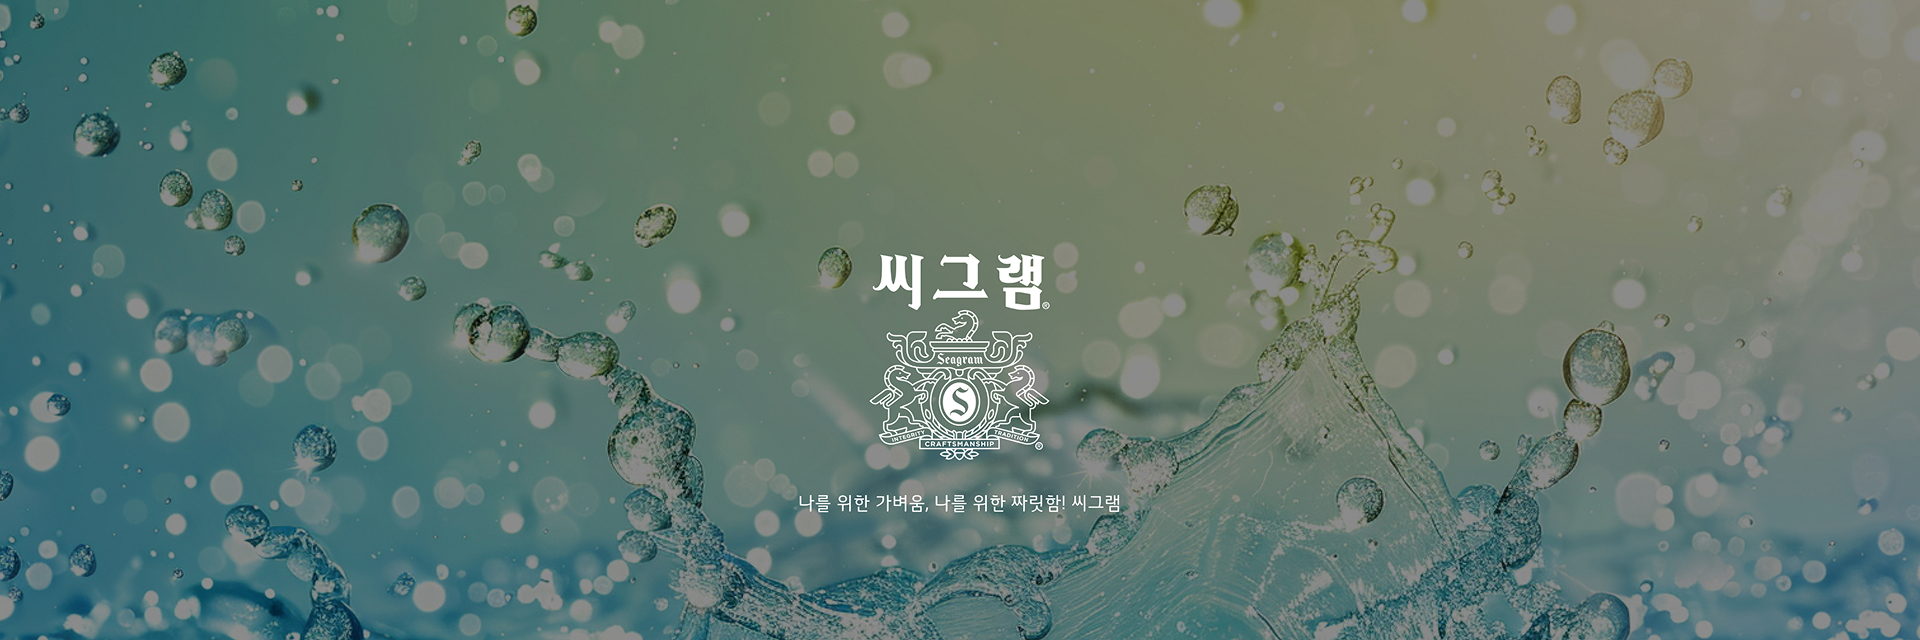
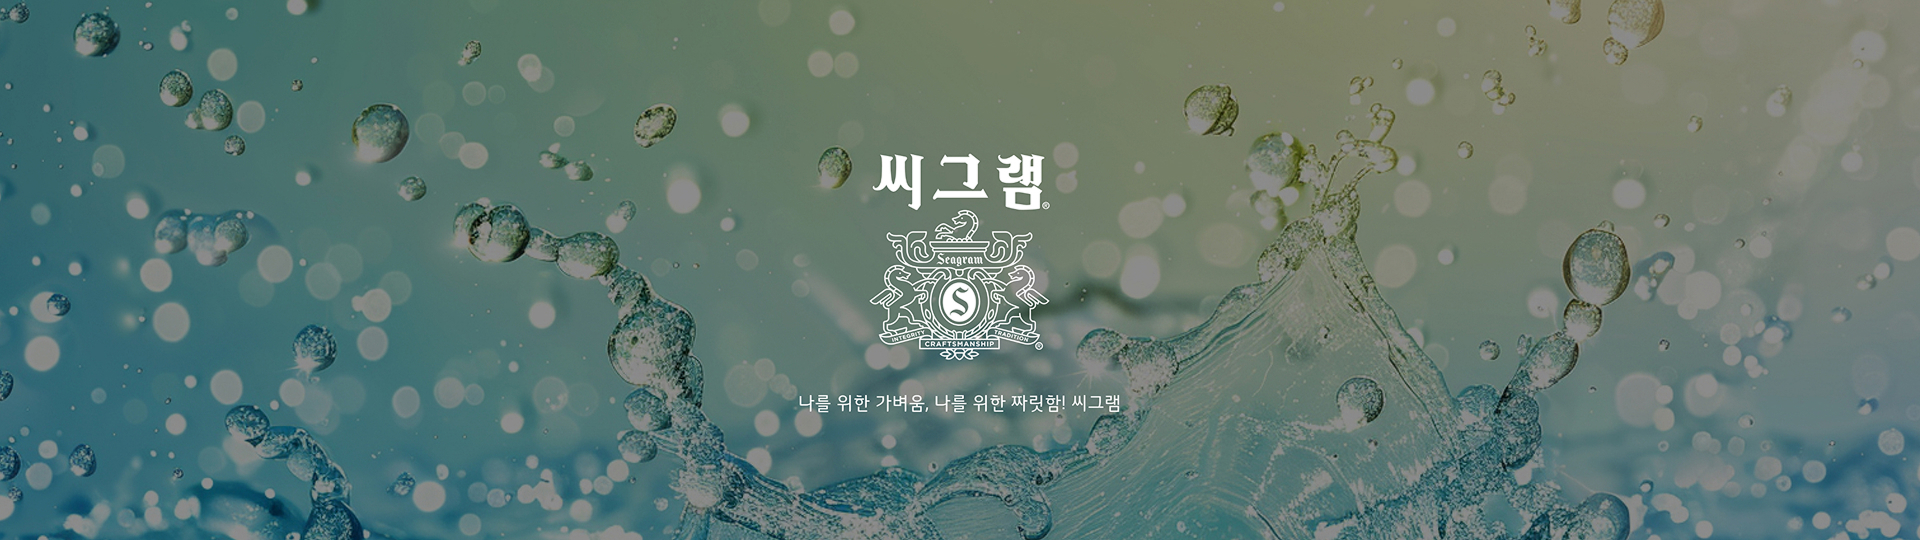
260212

diff --git a/css/brand.css b/css/brand.css
@@ -104,6 +104,8 @@
   left: 0;
   color: #FFFFFF;
   font-size: 40px;
+  font-weight: 700;
+  -webkit-text-stroke: 2px black;
 }
 @media (max-width: 768px) {
   .product-section .inner::before {
@@ -265,6 +267,8 @@
   top: -20%;
   color: #FFFFFF;
   font-size: 40px;
+  font-weight: 700;
+  -webkit-text-stroke: 2px black;
 }
 @media (max-width: 768px) {
   .media .image-wrap .inner::before {
@@ -306,10 +310,10 @@
   content: attr(data-title);
   position: absolute;
   left: 0;
-  bottom: 0%;
+  bottom: 0;
   width: 100%;
   padding: 15px 14px 30px;
-  background: rgba(255, 255, 255, 0.644);
+  background: rgba(255, 255, 255, 0.6431372549);
   backdrop-filter: blur(5px);
   color: #111;
   font-size: 18px;
@@ -317,6 +321,7 @@
   opacity: 0;
   transition: 0.3s;
   z-index: -1;
+  cursor: pointer;
 }
 .media .image-wrap .inner .media-list a:hover::before {
   opacity: 1;
@@ -1075,6 +1080,8 @@ body {
   display: flex;
   justify-content: center;
   align-items: center;
+  font-weight: 500;
+  font-size: 18px;
 }
 .title-location .locate img {
   width: 24px;
@@ -1082,7 +1089,6 @@ body {
 }
 .title-location .brand-title {
   margin-top: 10px;
-  min-height: 80px;
   text-align: center;
   font-size: 64px;
   font-weight: 800;

diff --git a/css/brand/_brand-media.scss b/css/brand/_brand-media.scss
@@ -10,7 +10,7 @@
 .media {
   display: flex;
   flex-direction: column;
-
+  
   .image-wrap {
     padding: 160px 0 80px;
     background-image: url(../image/brands/media.png);
@@ -27,7 +27,8 @@
         top: -20%;
         color: v.$c-text-white;
         font-size: v.$section-title;
-
+        font-weight: v.$fw-title-sm;
+        -webkit-text-stroke: 2px black;
         @include r.mobile-lg {
           top: -15%;
           left: 50%;
@@ -66,10 +67,10 @@
             content: attr(data-title);
             position: absolute;
             left: 0;
-            bottom: 0%;
+            bottom: 0;
             width: 100%;
             padding: 15px 14px 30px;
-            background: rgba(255, 255, 255, 0.644);
+            background: #ffffffa4;
             backdrop-filter: blur(5px);
             color: #111;
             font-size: 18px;
@@ -77,6 +78,7 @@
             opacity: 0;
             transition:  0.3s;
             z-index: -1;
+            cursor: pointer;
           }
           &:hover::before {
             opacity: 1;

diff --git a/css/brand/_brandsMain.scss b/css/brand/_brandsMain.scss
@@ -6,28 +6,26 @@
 .title-location {
   display: flex;
   flex-direction: column;
-  gap: v.$fs-re;
-  margin:160px 0;
+  gap: 18px;
   text-align: center;
+  margin: 160px 0;
   justify-content: center;
-
-  .locate {
+  
+  .locate{
     display: flex;
     justify-content: center;
     align-items: center;
-    gap: 6px;
-
-    img {
-      width: 24px;
-      height: 21px;
-    }
+    font-weight: 500;
+    font-size: 18px;
+    img {width: 24px;height: 21px;}
   }
 
   .brand-title {
     margin-top: 10px;
-    min-height: 80px;
+    // min-height: 80px;
+    text-align: center;
     font-size: v.$subpage-title;
-    font-weight: v.$fw-title;
+    font-weight: v.$fw-title
   }
 }
 

diff --git a/css/brands.css b/css/brands.css
@@ -139,15 +139,16 @@ table {
   display: flex;
   flex-direction: column;
   gap: 18px;
-  margin: 160px 0;
   text-align: center;
+  margin: 160px 0;
   justify-content: center;
 }
 .title-location .locate {
   display: flex;
   justify-content: center;
   align-items: center;
-  gap: 6px;
+  font-weight: 500;
+  font-size: 18px;
 }
 .title-location .locate img {
   width: 24px;
@@ -155,7 +156,7 @@ table {
 }
 .title-location .brand-title {
   margin-top: 10px;
-  min-height: 80px;
+  text-align: center;
   font-size: 64px;
   font-weight: 800;
 }

diff --git a/css/brand-product.scss b/css/brand-product.scss
@@ -22,12 +22,14 @@ body{
     display: flex;
     justify-content: center;
     align-items: center;
+    font-weight: 500;
+    font-size: 18px;
     img {width: 24px;height: 21px;}
   }
 
   .brand-title {
     margin-top: 10px;
-    min-height: 80px;
+    // min-height: 80px;
     text-align: center;
     font-size: v.$subpage-title;
     font-weight: v.$fw-title

diff --git a/css/brand.scss b/css/brand.scss
@@ -25,12 +25,14 @@ body{
     display: flex;
     justify-content: center;
     align-items: center;
+    font-weight: 500;
+    font-size: 18px;
     img {width: 24px;height: 21px;}
   }
 
   .brand-title {
     margin-top: 10px;
-    min-height: 80px;
+    // min-height: 80px;
     text-align: center;
     font-size: v.$subpage-title;
     font-weight: v.$fw-title

diff --git a/css/brand-product.css b/css/brand-product.css
@@ -706,6 +706,8 @@ body {
   display: flex;
   justify-content: center;
   align-items: center;
+  font-weight: 500;
+  font-size: 18px;
 }
 .title-location .locate img {
   width: 24px;
@@ -713,7 +715,6 @@ body {
 }
 .title-location .brand-title {
   margin-top: 10px;
-  min-height: 80px;
   text-align: center;
   font-size: 64px;
   font-weight: 800;

diff --git a/js/brandDetail.js b/js/brandDetail.js
@@ -117,7 +117,7 @@ if (!brand.media || brand.media.length === 0) {
 } else {
   brand.media.forEach(m => {
     const item = document.createElement("a");
-    item.href = m.link;
+    // item.href = m.link;
     item.target = "_blank";
     item.dataset.title = m.mediatitle;
     const img = document.createElement("img");

diff --git a/css/brand/_brand-swiper.scss b/css/brand/_brand-swiper.scss
@@ -35,6 +35,8 @@ $product-center-offset:
       left: 0;
       color: v.$c-text-white;
       font-size: v.$section-title;
+      font-weight: v.$fw-title-sm;
+      -webkit-text-stroke: 2px black;
       @include r.mobile-lg{
         left: 50%;
         transform: translateX(-50%);
